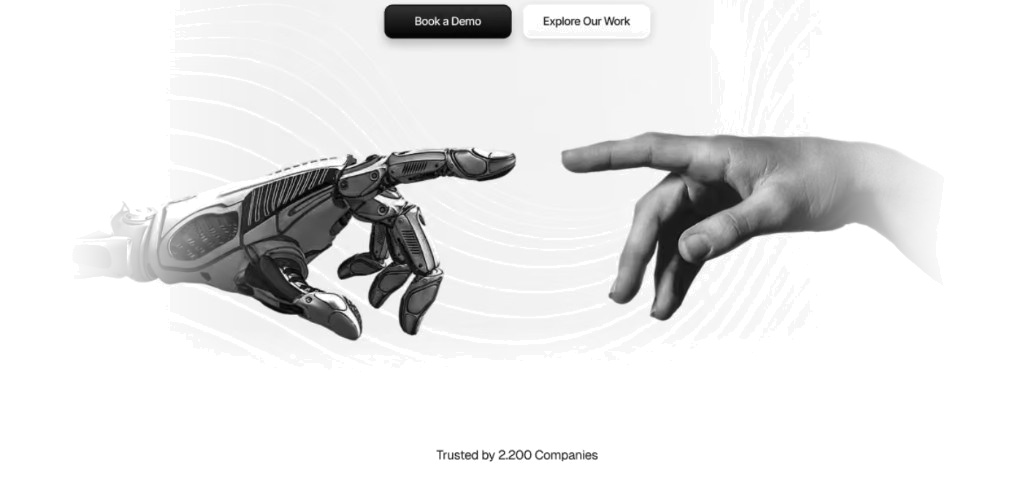
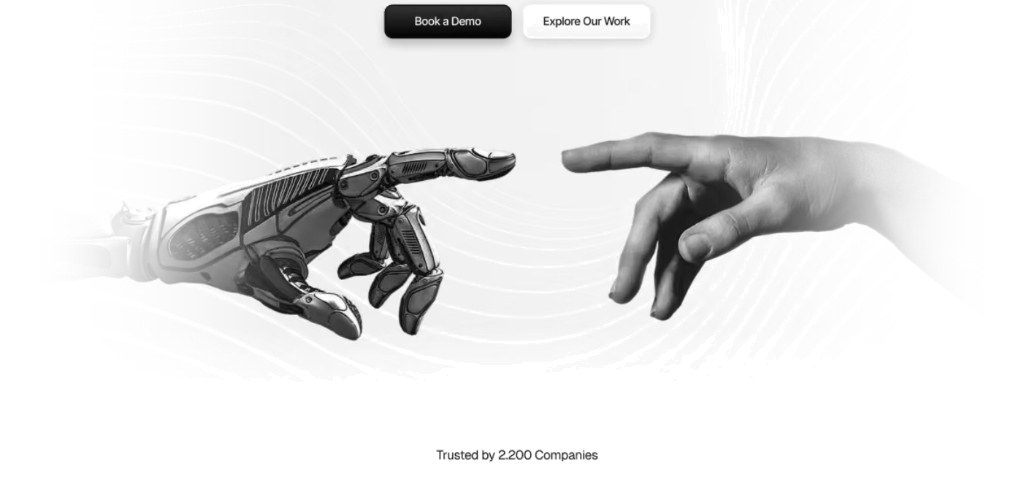
Fade hero sides with alpha so waves show through — no white image box.
Opaque side washes were painting a hard rectangle over the page background.

Changed region(s): [[0.1562, 0.4062, 0.25, 0.625], [0.75, 0.375, 0.8438, 0.5]]

diff --git a/app/globals.css b/app/globals.css
@@ -64,67 +64,33 @@ body {
   background-repeat: no-repeat;
 }
 
-/* Full-bleed hero art — left/right dissolve into page white (no imported-box edges) */
+/* Full-bleed hero art — transparent side fade into page (no white box / hard crop) */
 .hero-art-flow {
   position: relative;
   width: 100vw;
-  background: #ffffff;
-  isolation: isolate;
-}
-
-.hero-art-flow::before,
-.hero-art-flow::after {
-  content: "";
-  position: absolute;
-  top: 0;
-  bottom: 0;
-  width: min(48vw, 420px);
-  z-index: 2;
-  pointer-events: none;
-}
-
-.hero-art-flow::before {
-  left: 0;
-  background: linear-gradient(
-    to right,
-    #ffffff 0%,
-    #ffffff 55%,
-    rgba(255, 255, 255, 0) 100%
-  );
-}
-
-.hero-art-flow::after {
-  right: 0;
-  background: linear-gradient(
-    to left,
-    #ffffff 0%,
-    #ffffff 55%,
-    rgba(255, 255, 255, 0) 100%
-  );
+  background: transparent;
 }
 
 .hero-art-img {
   display: block;
-  position: relative;
-  z-index: 1;
   width: 100%;
   height: auto;
   object-fit: contain;
   object-position: center center;
-  background: #ffffff;
-  /* Soft mask so left/right never read as a hard image crop */
+  background: transparent;
+  /* Extra soft dissolve so left/right never read as an imported rectangle */
   -webkit-mask-image: linear-gradient(
     to right,
     transparent 0%,
-    #000 18%,
-    #000 82%,
+    #000 22%,
+    #000 78%,
     transparent 100%
   );
   mask-image: linear-gradient(
     to right,
     transparent 0%,
-    #000 18%,
-    #000 82%,
+    #000 22%,
+    #000 78%,
     transparent 100%
   );
 }
